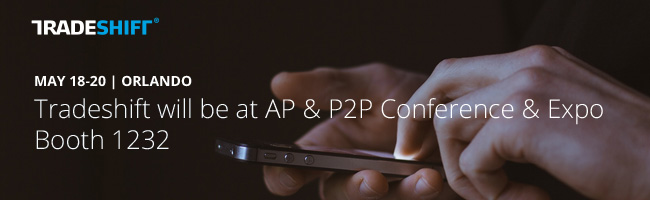
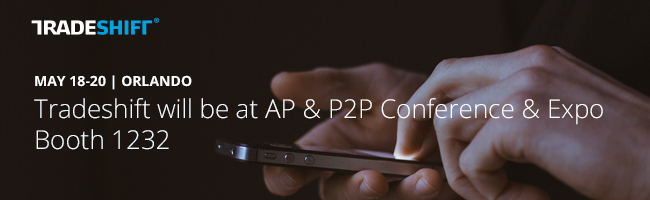
Social media images updated. Higher resolution now available.

diff --git a/directory/social_media.html b/directory/social_media.html
@@ -63,7 +63,7 @@ GitHub: Yunggg // http://github.com/Yunggg
 		<div class="row">
 		 	<div class="col-md-12 hero_shot">
 			  	<div class="hero_fg" >
-			  		<img src="../img/assets/projects/social_media/digital_blog-01.jpg" alt="Dung's Hero Portrait" />
+			  		<img src="../img/assets/projects/social_media/digital_blog.png" alt="Dung's Hero Portrait" />
 			  	</div>
 			  	<div class="hero_bg digital" >
 			  	</div>
@@ -114,12 +114,12 @@ GitHub: Yunggg // http://github.com/Yunggg
 		</section>
 		<section class="row">
 			<div class="col-md-12 portfolio">
-				<img src="../img/assets/projects/social_media/2014_1110_newsletter_header.jpg" alt="Hashtag GoDigital Newsletter Header" />
+				<img src="../img/assets/projects/social_media/newsletter header.png" alt="Hashtag GoDigital Newsletter Header" />
 			</div>
 		</section>
 		<section class="row">
 			<div class="col-md-12 portfolio_img">
-				<img src="../img/assets/projects/social_media/FB_Ad.jpg" alt="Facebook ad for GoDigital" />
+				<img src="../img/assets/projects/social_media/tablet.jpg" alt="Facebook ad for GoDigital" />
 			</div>
 		</section>
 		<section class="row">
@@ -129,25 +129,30 @@ GitHub: Yunggg // http://github.com/Yunggg
 		</section>
 		<section class="row">
 			<div class="col-md-12 portfolio_img">
-				<img src="../img/assets/projects/social_media/GoDigital_Facebook-Timeline.png" alt="GoDigital Facebook Campaign" />
+				<img src="../img/assets/projects/social_media/GoDigital_Fb_Timeline.jpg" alt="GoDigital Facebook Campaign" />
 			</div>
 		</section>
 		<section class="row">
 			<div class="col-md-12 portfolio">
 				<div class="portfolio_copy subtitles">
 					<h3>Anti-Ariba Campaign</h3>
-					<p>A social media attack when Ariba, one of Tradeshift’s biggest competitor, has its annual conference in San Francisco. The goal is to offer a different approach to AP process, go paperless, and free network between suppliers and buyers. The campaign appears on various social networks: LinkedIn, Twitter, Facebook, Google Plus.</p>
+					<p>Tradeshift launched a social media campaign promoting its distinctive features against prominent competitors. By offering a different approach to the AP process, going paperless and building a free network between suppliers and buyers, Tradeshift aims to appeal to a bigger target market. The campaign appears on various social networks: LinkedIn, Twitter, Facebook, Google Plus.</p>
 				</div>
 			</div>
 		</section>
 		<section class="row">
 			<div class="col-md-12 portfolio">
+				<img src="../img/assets/projects/social_media/Ariba blog.jpg" alt="Anti-Ariba" />
+			</div>
+		</section>
+		<section class="row">
+			<div class="col-md-12 portfolio_img">
 				<img src="../img/assets/projects/social_media/smbs.jpg" alt="Anti-Ariba Buzz in LinkedIn" />
 			</div>
 		</section>
 		<section class="row">
 			<div class="col-md-12 portfolio_img">
-				<img src="../img/assets/projects/social_media/supplier_fee_calculator.jpg" alt="Supplier Fee Calculator" />
+				<img src="../img/assets/projects/social_media/Supplier-Fee-Calculator.jpg" alt="Supplier Fee Calculator" />
 			</div>
 		</section>
 		<section class="row">
@@ -159,16 +164,21 @@ GitHub: Yunggg // http://github.com/Yunggg
 			<div class="col-md-12 portfolio">
 				<div class="portfolio_copy subtitles">
 					<h3>Event Promotion</h3>
-					<p>A social media attack when Ariba, one of Tradeshift’s biggest competitor, has its annual conference in San Francisco. The goal is to offer a different approach to AP process, go paperless, and free network between suppliers and buyers. The campaign appears on various social networks: LinkedIn, Twitter, Facebook, Google Plus.</p>
+					<p>Tradeshift has events in various international locations: London, Prague, Paris, Suzhou, Copehengan, etc. Our team promotes the events on Twitter, LinkedIn, Facebook, Tradeshift Blog, and via emails.</p>
 				</div>
 			</div>
 		</section>
 		<section class="row">
-			<div class="col-md-6 portfolio">
+			<div class="col-md-12 portfolio">
+				<img src="../img/assets/projects/social_media/Prague event.png" alt="Prague event" />
+			</div>
+		</section>
+		<section class="row">
+			<div class="col-md-6 portfolio_img">
 				<img src="../img/assets/projects/social_media/May-18-email-signature.jpg" alt="TradeShift Onboard Performance Gauge" />
 			</div>
-			<div class="col-md-6 portfolio">
-				<img src="../img/assets/projects/social_media/May-20-event_LinkedIn.jpg" alt="TradeShift Onboard Performance Gauge" />
+			<div class="col-md-6 portfolio_img">
+				<img src="../img/assets/projects/social_media/May-5-webinar-email-signature.jpg" alt="TradeShift Onboard Performance Gauge" />
 			</div>
 		</section>
 

diff --git a/directory/email_design.html b/directory/email_design.html
@@ -64,7 +64,7 @@ GitHub: Yunggg // http://github.com/Yunggg
 		<div class="row">
 		 	<div class="col-md-12 hero_shot">
 			  	<div class="hero_fg" >
-			  		<img src="../img/assets/projects/email_temp/demo-mobile-email.png" alt="Dung's Hero Portrait" />
+			  		<img src="../img/assets/projects/email_temp/demo1b.png" alt="Dung's Hero Portrait" />
 			  	</div>
 			  	<div class="hero_bg" >
 			  		<img src="../img/assets/projects/email_temp/hero_bg.jpg" alt="Dung's Hero BG" />
@@ -116,7 +116,7 @@ GitHub: Yunggg // http://github.com/Yunggg
 		</section>
 		<section class="row">
 			<div class="col-md-12 portfolio constrain">
-				<img src="../img/assets/projects/email_temp/demo-email.png" alt="Demo Email Layout" />
+				<img src="../img/assets/projects/email_temp/demo-email.jpg" alt="Demo Email Layout" />
 			</div>
 		</section>
 		<section class="row">
@@ -134,7 +134,7 @@ GitHub: Yunggg // http://github.com/Yunggg
 		</section>
 		<section class="row">
 			<div class="col-md-12 portfolio constrain">
-				<img src="../img/assets/projects/email_temp/emails.png" alt="Demo Email Layout in Gmail" />
+				<img src="../img/assets/projects/email_temp/emails.jpg" alt="Demo Email Layout in Gmail" />
 			</div>
 		</section>
 

diff --git a/directory/website.html b/directory/website.html
@@ -137,7 +137,7 @@ GitHub: Yunggg // http://github.com/Yunggg
 		</section>
 		<section class="row">
 			<div class="col-md-12 portfolio">
-				<img src="../img/assets/projects/website/event-center.png" alt="Website Event Center Mockup" />
+				<img src="../img/assets/projects/website/event-center.jpg" alt="Website Event Center Mockup" />
 			</div>
 		</section>
 		<section class="row">
@@ -149,7 +149,7 @@ GitHub: Yunggg // http://github.com/Yunggg
 		</section>
 		<section class="row">
 			<div class="col-md-12 portfolio">
-				<img src="../img/assets/projects/website/demo1b.png" alt="Demo Website Mockup" />
+				<img src="../img/assets/projects/website/demo1b.jpg" alt="Demo Website Mockup" />
 			</div>
 		</section>
 

diff --git a/directory/cocktail.html b/directory/cocktail.html
@@ -126,7 +126,7 @@ GitHub: Yunggg // http://github.com/Yunggg
 			<div class="col-sm-0 col-md-2 portfolio">
 			</div>
 			<div class="col-md-8 portfolio">
-				<img src="../img/assets/projects/cocktails/cocktail_booklet_cover.jpg" alt="Cocktail Booklet Cover" />
+				<img src="../img/assets/projects/cocktails/front.png" alt="Cocktail Booklet Cover" />
 			</div>
 			<div class="col-sm-0 col-md-2 portfolio">
 			</div>

diff --git a/css/dungs_sass.css b/css/dungs_sass.css
@@ -189,7 +189,8 @@ a:active {
   padding: 0 0 0.5em 0; }
 
 .portfolio .subtitles h3 {
-  font-weight: 500; }
+  font-weight: 500;
+  padding: 1em 0 0.5em 0; }
 
 .colorPalette {
   display: inline-block; }
